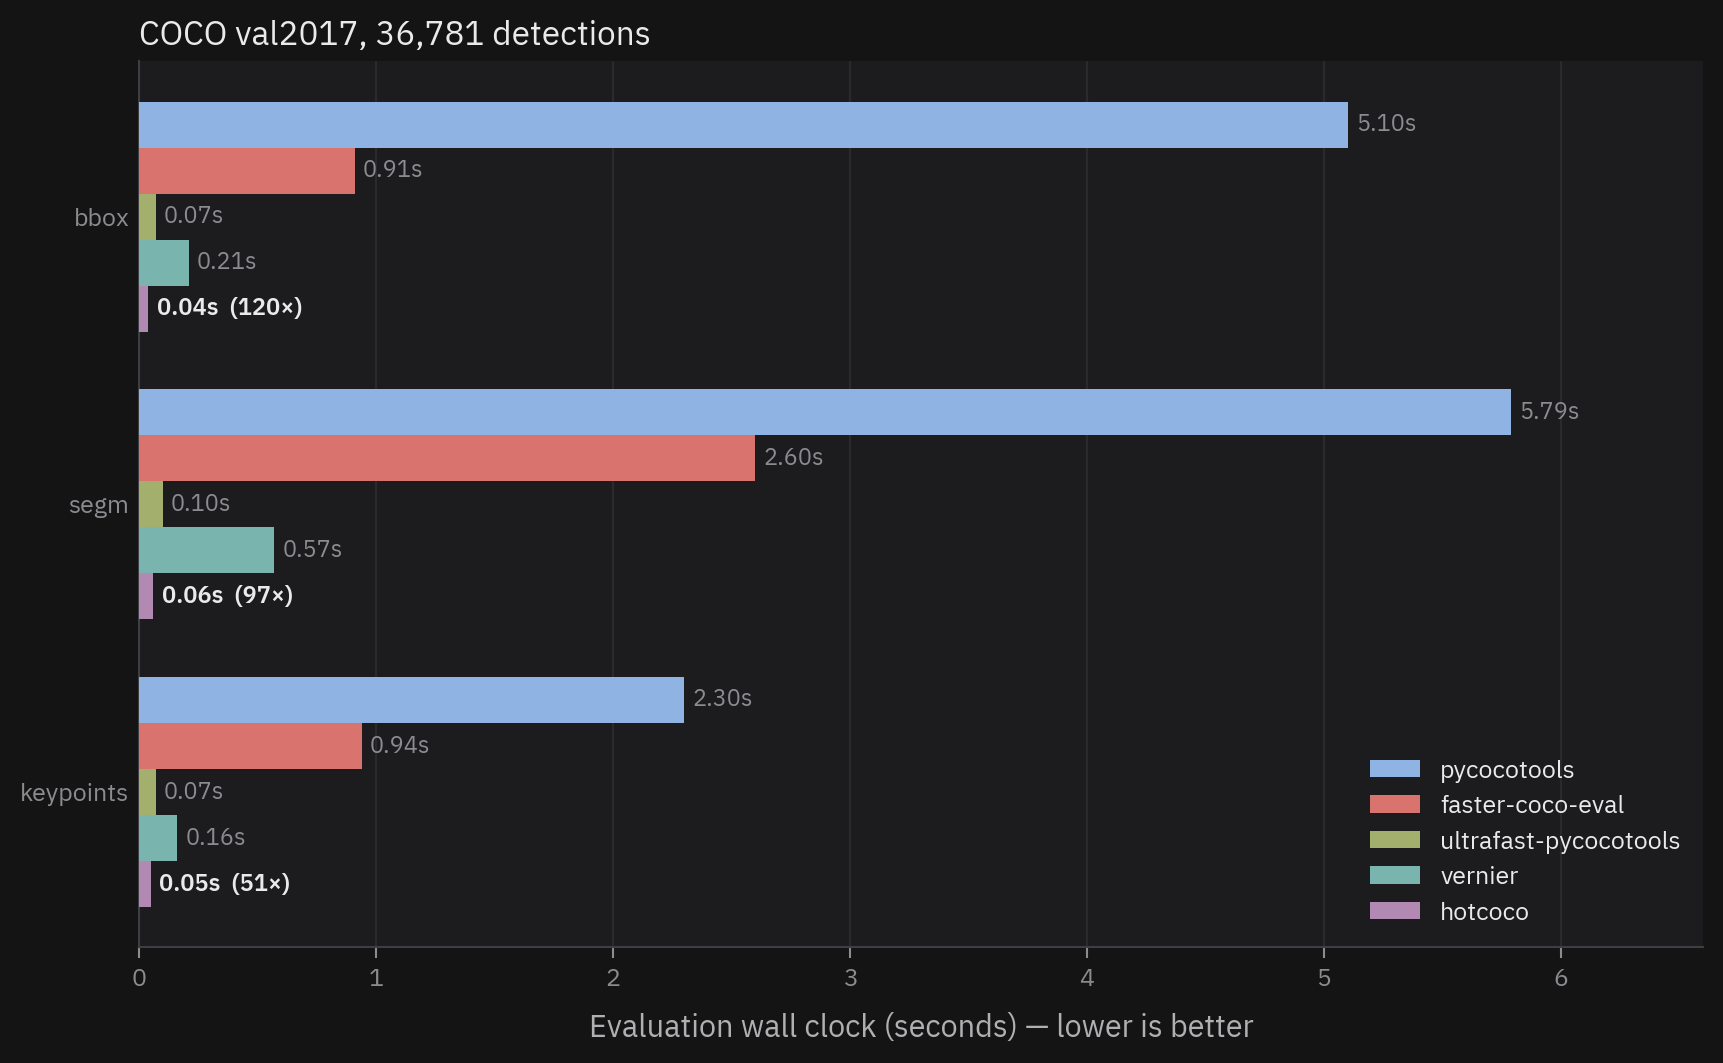
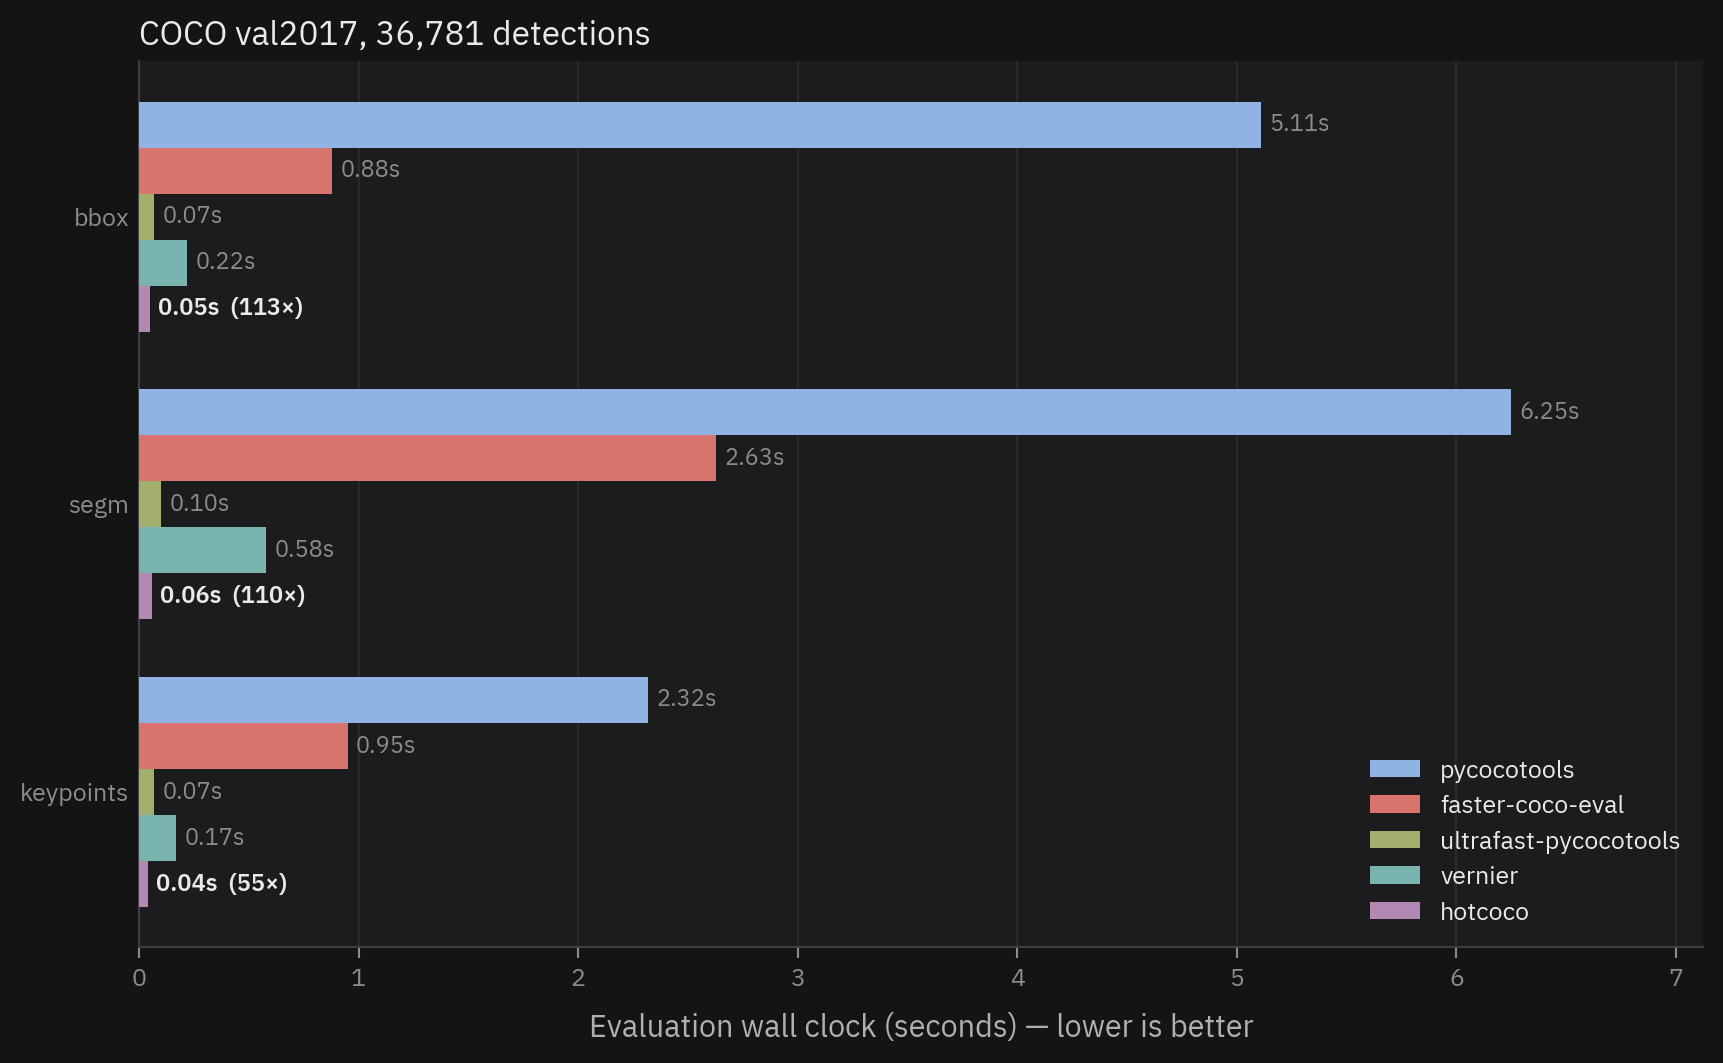
docs: 1.2 benchmark capture
- 1x, 10x, memory, and phase tables re-measured on 2026-10-07 with the
  evaluate() and accumulate() changes; hotcoco fastest on every row
- bbox at 10x: 0.12 s, 199.5x; evaluation phase 186-378x
- README and landing page headline figures and the chart script's table
  synced; charts regenerated
- hotcoco's Python floor in the feature table is 3.10+

diff --git a/scripts/gen_docs_assets.py b/scripts/gen_docs_assets.py
@@ -61,31 +61,31 @@ DT = VAL2017["bbox"]["dt"]
 # Keep in sync with the "Results (1x detections)" table in docs/benchmarks.md.
 BENCH = {
     "bbox": {
-        "pycocotools": 5.10,
-        "faster-coco-eval": 0.91,
+        "pycocotools": 5.11,
+        "faster-coco-eval": 0.88,
         "ultrafast-pycocotools": 0.07,
-        "vernier": 0.21,
-        "hotcoco": 0.04,
+        "vernier": 0.22,
+        "hotcoco": 0.05,
     },
     "segm": {
-        "pycocotools": 5.79,
-        "faster-coco-eval": 2.60,
+        "pycocotools": 6.25,
+        "faster-coco-eval": 2.63,
         "ultrafast-pycocotools": 0.10,
-        "vernier": 0.57,
+        "vernier": 0.58,
         "hotcoco": 0.06,
     },
     "keypoints": {
-        "pycocotools": 2.30,
-        "faster-coco-eval": 0.94,
+        "pycocotools": 2.32,
+        "faster-coco-eval": 0.95,
         "ultrafast-pycocotools": 0.07,
-        "vernier": 0.16,
-        "hotcoco": 0.05,
+        "vernier": 0.17,
+        "hotcoco": 0.04,
     },
 }
 # hotcoco's speedup vs pycocotools, as the table states it: the median of the
 # per-run ratios, not a ratio of the two-decimal times above, which would round
 # a 0.134s median into a larger multiple than was measured.
-BENCH_SPEEDUP = {"bbox": 119.5, "segm": 96.9, "keypoints": 50.8}
+BENCH_SPEEDUP = {"bbox": 113.3, "segm": 110.5, "keypoints": 55.3}
 
 
 def benchmark_chart(out: Path, theme: str) -> None:

diff --git a/docs/benchmarks.md b/docs/benchmarks.md
@@ -27,7 +27,7 @@ ultrafast-pycocotools 0.1.13, vernier 0.5.4, hotcoco `main` (1.2 development).
 | **CLI** | No | No | No | Yes — `vernier` binary | Yes — `coco` (Python) + `coco-eval` (Rust) |
 | **Results export** | No | No | `stats_as_dict` | JSON via CLI | Yes — JSON with params + metrics + per-class |
 | **Memory at scale** | Exceeds physical RAM on O365 | Exceeds physical RAM on O365 | Completes (their measurement) | Completes (their measurement) | Completes within physical RAM ([details](#objects365-scale-benchmark)) |
-| **Python versions** | 3.9+ | 3.10+ | 3.8+ | 3.10+ | 3.9+ |
+| **Python versions** | 3.9+ | 3.10+ | 3.8+ | 3.10+ | 3.10+ |
 | **License** | BSD | Apache 2.0 | BSD-2 | MIT or Apache 2.0 | MIT |
 
 ## Speed benchmarks
@@ -36,12 +36,11 @@ ultrafast-pycocotools 0.1.13, vernier 0.5.4, hotcoco `main` (1.2 development).
 **Dataset:** COCO val2017 — 5,000 images
 **Detections:** 36,781 synthetic — see [Methodology](#methodology)
 **Timing:** Wall clock time — per-cell median of 3 runs, each in a fresh process, at
-both 1× and 10×, captured back to back in one session (2026-10-06). Absolute times
+both 1× and 10×, captured back to back in one session (2026-10-07). Absolute times
 drift between captures on this machine, so compare them only within a table; the
 speedup ratios are not affected. Peak memory is each process's own resident set.
 **Versions:** pycocotools 2.0.11, faster-coco-eval 1.8.0, ultrafast-pycocotools 0.1.13,
-vernier 0.5.4, hotcoco `main` (1.2 development, with the `evaluate()` and
-`accumulate()` changes listed under `[Unreleased]`).
+vernier 0.5.4, hotcoco 1.2.0.
 
 ### Results (1x detections)
 
@@ -54,9 +53,9 @@ to pycocotools'. Chart drawn with <code>hotcoco.plot</code>.</figcaption>
 
 | Eval Type | pycocotools | faster-coco-eval | ultrafast-pycocotools | vernier | hotcoco |
 |-----------|-------------|------------------|-----------------------|---------|---------|
-| bbox      | 5.10s | 0.91s (5.5×) | 0.07s (70.9×) | 0.21s (24.7×) | **0.04s (119.5×)** |
-| segm      | 5.79s | 2.60s (2.2×) | 0.10s (57.2×) | 0.57s (10.1×) | **0.06s (96.9×)** |
-| keypoints | 2.30s | 0.94s (2.4×) | 0.07s (32.2×) | 0.16s (14.0×) | **0.05s (50.8×)** |
+| bbox      | 5.11s | 0.88s (5.8×) | 0.07s (74.9×) | 0.22s (22.9×) | **0.05s (113.3×)** |
+| segm      | 6.25s | 2.63s (2.4×) | 0.10s (63.4×) | 0.58s (10.8×) | **0.06s (110.5×)** |
+| keypoints | 2.32s | 0.95s (2.5×) | 0.07s (32.2×) | 0.17s (13.7×) | **0.04s (55.3×)** |
 
 Speedups in parentheses are vs pycocotools.
 
@@ -64,13 +63,13 @@ Peak resident memory, same runs (MB):
 
 | Eval Type | pycocotools | faster-coco-eval | ultrafast-pycocotools | vernier | hotcoco |
 |-----------|-------------|------------------|-----------------------|---------|---------|
-| bbox      | 739 | 629 | 95 | 173 | 113 |
-| segm      | 748 | 713 | 117 | 200 | 130 |
-| keypoints | 322 | 314 | 106 | 146 | 102 |
+| bbox      | 659 | 629 | 94 | 173 | 114 |
+| segm      | 608 | 657 | 117 | 200 | 132 |
+| keypoints | 266 | 287 | 106 | 146 | 97 |
 
-The three Rust engines are 10–119× ahead of pycocotools, and hotcoco is
-fastest on every row. On memory it sits below vernier and within 1.2× of
-ultrafast-pycocotools, which parses detections straight into columnar
+The three Rust engines are 11–113× ahead of pycocotools, and hotcoco is
+fastest on every row. On memory it sits below vernier and within about 1.2×
+of ultrafast-pycocotools, which parses detections straight into columnar
 arrays while hotcoco materializes one annotation record per detection.
 
 ### Results (10x detections)
@@ -79,23 +78,23 @@ Scaling detections by 10x (~368,000) to test behavior under higher load:
 
 | Eval Type | pycocotools | faster-coco-eval | ultrafast-pycocotools | vernier | hotcoco |
 |-----------|-------------|------------------|-----------------------|---------|---------|
-| bbox      | 21.95s | 3.19s (6.9×) | 0.15s (147.2×) | 0.89s (24.9×) | **0.14s (159.9×)** |
-| segm      | 23.75s | 6.99s (3.4×) | 0.27s (87.8×) | 1.72s (13.8×) | **0.24s (99.0×)** |
-| keypoints | 9.36s | 5.97s (1.6×) | 0.32s (29.8×) | 0.94s (10.1×) | **0.24s (38.6×)** |
+| bbox      | 24.81s | 3.40s (7.3×) | 0.15s (160.7×) | 0.89s (27.8×) | **0.12s (199.5×)** |
+| segm      | 25.24s | 7.06s (3.6×) | 0.27s (93.5×) | 1.73s (14.6×) | **0.23s (108.0×)** |
+| keypoints | 9.42s | 5.99s (1.6×) | 0.31s (29.9×) | 0.92s (10.2×) | **0.24s (39.2×)** |
 
 Peak resident memory, same runs (MB):
 
 | Eval Type | pycocotools | faster-coco-eval | ultrafast-pycocotools | vernier | hotcoco |
 |-----------|-------------|------------------|-----------------------|---------|---------|
-| bbox      | 1858 | 1126 | 187 | 558 | 208 |
-| segm      | 1876 | 1654 | 376 | 860 | 372 |
-| keypoints | 1586 | 1651 | 463 | 704 | 340 |
+| bbox      | 1519 | 1080 | 187 | 558 | 216 |
+| segm      | 1626 | 1437 | 375 | 860 | 381 |
+| keypoints | 1173 | 1256 | 463 | 704 | 331 |
 
 The results file is read a few megabytes at a time, so at this scale the peak
 is set by the evaluation, not the load: hotcoco holds about 210 bytes per
 detection with no slack around it, the evaluator shares the datasets rather
 than copying them, and the peak is within 1.2× of ultrafast-pycocotools' on
-bbox and below it on segm and keypoints. On keypoints, the 325 MB results file
+bbox and segm and below it on keypoints. On keypoints, the 325 MB results file
 no longer sits in memory beside its records.
 
 Absolute times stay under 0.3s at 368,000 detections, and hotcoco is fastest
@@ -116,16 +115,16 @@ time (same protocol, same synthetic detections as the 1× table):
 
 | Eval type | Phase | pycocotools | faster-coco-eval | ultrafast-pycocotools | vernier | hotcoco |
 |-----------|-------|-------------|------------------|-----------------------|---------|---------|
-| bbox      | load  | 0.30s | 0.30s (1.0×) | 0.05s (6.2×) | 0.09s (3.6×) | **0.03s (12.0×)** |
-|           | eval  | 4.55s | 0.59s (7.7×) | 0.02s (233.2×) | 0.12s (39.3×) | **0.02s (293.8×)** |
-| segm      | load  | 0.33s | 0.33s (1.0×) | 0.05s (6.2×) | 0.09s (3.8×) | **0.03s (10.7×)** |
-|           | eval  | 5.36s | 2.20s (2.4×) | 0.05s (112.9×) | 0.48s (11.1×) | **0.02s (215.4×)** |
-| keypoints | load  | 0.48s | 0.48s (1.0×) | 0.04s (13.1×) | 0.05s (9.9×) | **0.03s (15.0×)** |
-|           | eval  | 1.79s | 0.45s (4.0×) | 0.03s (51.7×) | 0.12s (15.0×) | **0.01s (132.6×)** |
-| bbox, bbox-only GT | load | 0.15s | 0.15s (1.0×) | 0.03s (5.6×) | 0.02s (6.9×) | **0.02s (9.6×)** |
-|           | eval  | 4.40s | 0.53s (8.4×) | 0.02s (226.2×) | 0.12s (37.5×) | **0.02s (270.2×)** |
+| bbox      | load  | 0.31s | 0.31s (1.0×) | 0.05s (6.1×) | 0.09s (3.6×) | **0.03s (11.5×)** |
+|           | eval  | 4.66s | 0.59s (8.0×) | 0.02s (229.0×) | 0.12s (39.5×) | **0.01s (378.0×)** |
+| segm      | load  | 0.33s | 0.33s (1.0×) | 0.05s (6.1×) | 0.09s (3.8×) | **0.03s (10.5×)** |
+|           | eval  | 5.38s | 2.19s (2.5×) | 0.05s (115.5×) | 0.48s (11.1×) | **0.02s (244.7×)** |
+| keypoints | load  | 0.48s | 0.48s (1.0×) | 0.04s (13.2×) | 0.05s (10.5×) | **0.03s (15.2×)** |
+|           | eval  | 1.79s | 0.44s (4.0×) | 0.03s (52.8×) | 0.12s (15.6×) | **0.01s (186.2×)** |
+| bbox, bbox-only GT | load | 0.16s | 0.15s (1.0×) | 0.03s (5.6×) | 0.02s (7.1×) | **0.02s (9.3×)** |
+|           | eval  | 4.44s | 0.52s (8.5×) | 0.02s (221.1×) | 0.12s (36.7×) | **0.01s (369.6×)** |
 
-hotcoco's evaluation phase is 133–294× faster than pycocotools'; the
+hotcoco's evaluation phase is 186–378× faster than pycocotools'; the
 end-to-end headline is lower because loading, which no library can speed up by
 much more than 10×, is a large share of hotcoco's total.
 

diff --git a/README.md b/README.md
@@ -5,7 +5,7 @@
 [![Crates.io](https://img.shields.io/crates/v/hotcoco)](https://crates.io/crates/hotcoco)
 [![License: MIT](https://img.shields.io/badge/License-MIT-yellow.svg)](LICENSE)
 
-**hotcoco is a perception evaluation toolkit, written in Rust with Python bindings.** It's a drop-in replacement for [pycocotools](https://github.com/ppwwyyxx/cocoapi) — the same numbers bit for bit, up to 119× faster — plus the analysis that usually lives in separate tools: TIDE error analysis, confusion matrices, confidence calibration, model comparison, label-error detection, and a dataset browser.
+**hotcoco is a perception evaluation toolkit, written in Rust with Python bindings.** It's a drop-in replacement for [pycocotools](https://github.com/ppwwyyxx/cocoapi) — the same numbers bit for bit, up to 113× faster — plus the analysis that usually lives in separate tools: TIDE error analysis, confusion matrices, confidence calibration, model comparison, label-error detection, and a dataset browser.
 
 It covers detection today — boxes, masks, keypoints, and oriented boxes on the COCO, LVIS, and Open Images protocols. Panoptic and tracking are planned, on the same engine.
 
@@ -15,7 +15,7 @@ Pure Rust, available as a **Python package**, **CLI tool**, and **Rust library**
 
 ## Performance
 
-Bbox evaluation on COCO val2017 runs in **0.04s** against 5.10s for pycocotools; segm is ~97× faster and keypoints ~51×. Peak memory is a third of pycocotools' or less at every scale measured. Two other Rust evaluators, ultrafast-pycocotools and vernier, are in the same speed class; the benchmarks page compares all five on time and memory. The precision, recall, and scores arrays and every summary metric are bit-identical to pycocotools', so your AP scores don't change.
+Bbox evaluation on COCO val2017 runs in **0.05s** against 5.11s for pycocotools; segm is ~111× faster and keypoints ~55×. Peak memory is a third of pycocotools' or less at every scale measured. Two other Rust evaluators, ultrafast-pycocotools and vernier, are in the same speed class; the benchmarks page compares all five on time and memory. The precision, recall, and scores arrays and every summary metric are bit-identical to pycocotools', so your AP scores don't change.
 
 Full tables, hardware, the Objects365 scale run, phase breakdowns, and parity verification: [Benchmarks](https://derekallman.github.io/hotcoco/benchmarks/).
 

diff --git a/docs/index.md b/docs/index.md
@@ -13,7 +13,7 @@ Perception evaluation for Python, written in Rust.
 </p>
 
 <p class="hero-sub">
-hotcoco evaluates perception models, starting with detection: boxes, masks, keypoints, and oriented boxes on the COCO, LVIS, and Open Images protocols. It's a drop-in replacement for pycocotools — the same numbers bit for bit, up to 119× faster — and it includes the analysis you'd otherwise need separate tools for: TIDE error analysis, confusion matrices, calibration, model comparison, and a dataset browser.
+hotcoco evaluates perception models, starting with detection: boxes, masks, keypoints, and oriented boxes on the COCO, LVIS, and Open Images protocols. It's a drop-in replacement for pycocotools — the same numbers bit for bit, up to 113× faster — and it includes the analysis you'd otherwise need separate tools for: TIDE error analysis, confusion matrices, calibration, model comparison, and a dataset browser.
 </p>
 
 <div class="hero-actions" markdown>
@@ -103,7 +103,7 @@ pip install hotcoco
 
 ## Performance
 
-Bbox evaluation on COCO val2017 takes **0.04s**; pycocotools takes 5.10s. Peak
+Bbox evaluation on COCO val2017 takes **0.05s**; pycocotools takes 5.11s. Peak
 memory is a third of pycocotools' or less at every scale measured. The
 precision, recall, and scores arrays and every summary metric are bit-identical to
 pycocotools'.
